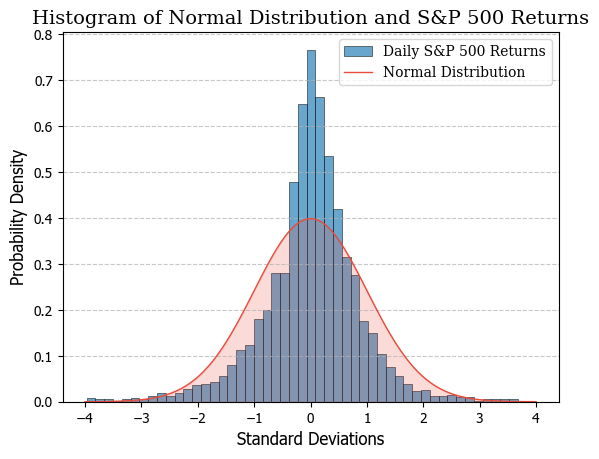
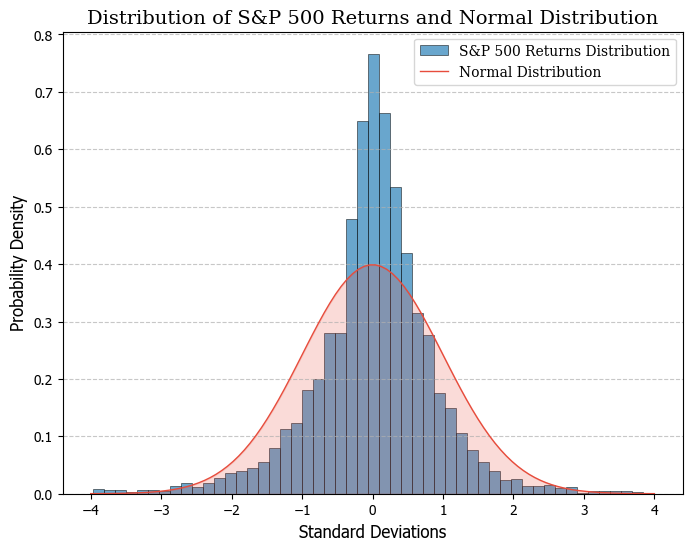
changed distribtion grpah

diff --git a/RYAAY_distribution.py b/RYAAY_distribution.py
@@ -168,14 +168,14 @@ x_values = np.linspace(-4, 4, 100)
 normal_distribution = norm.pdf(x_values, mean_returns, 1)
 # Create histogram
 num_bins = 50
-plt.hist(returns_zscores, bins=num_bins, color='#2980b9', alpha=0.7, density=True, label='Daily RYAAY Returns', edgecolor='black', linewidth=0.5)
+plt.hist(returns_zscores, bins=num_bins, color='#2980b9', alpha=0.7, density=True, label='Daily RYAAY Returns Distribution', edgecolor='black', linewidth=0.5)
 plt.plot(x_values, normal_distribution, color='#e74c3c', label='Normal Distribution', linewidth=1)
 # Show histogram
 plt.fill_between(x_values, normal_distribution, alpha=0.2, color='#e74c3c')
 plt.xlabel('Returns', fontsize=12)
 plt.ylabel('Probability Density', fontsize=12)
 plt.xlabel('Standard Deviations', fontsize=12)
-plt.title('Histogram of Normal Distribution and RYAAY Returns', fontsize=14, fontfamily='serif')
+plt.title('Distribution of RYAAY Returns and Normal Distribution', fontsize=14, fontfamily='serif')
 plt.legend(fontsize=10, prop={'family': 'serif', 'size': 10})
 plt.grid(axis='y', linestyle='--', alpha=0.7)
 plt.tick_params(axis='both', which='major', labelsize=10)
